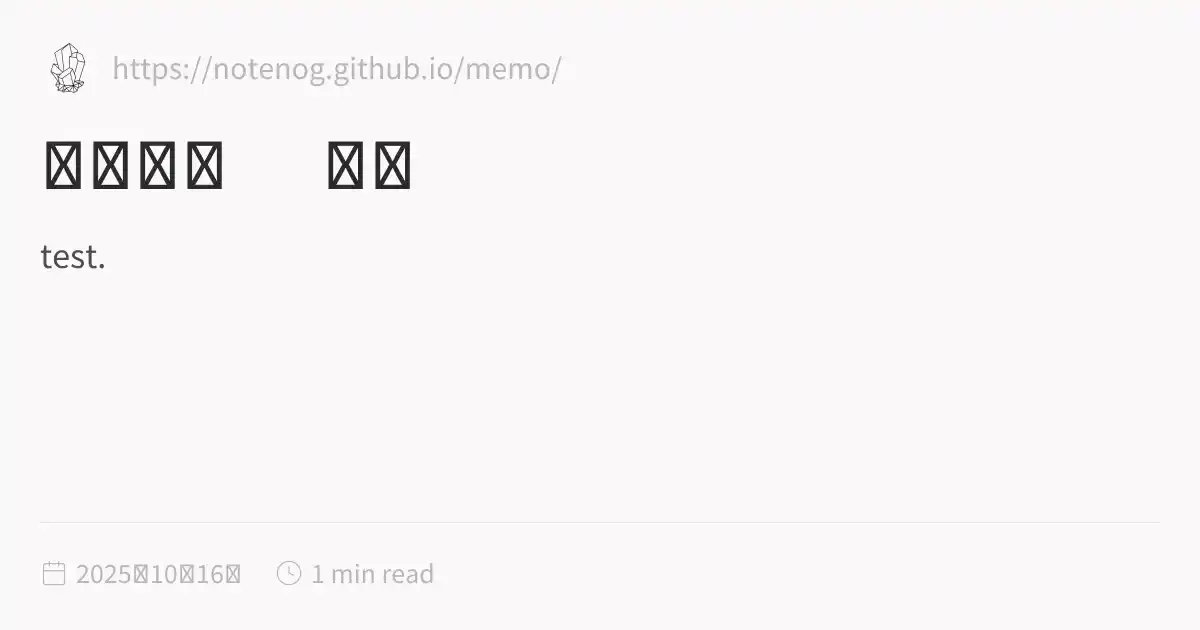
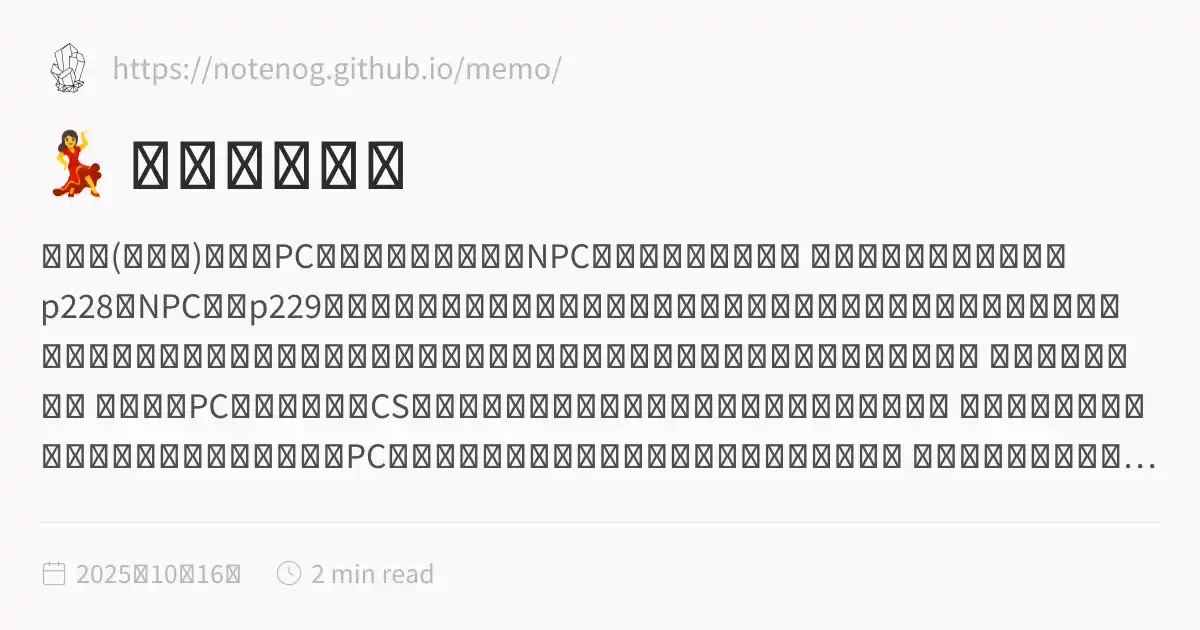
fix: Final push of clean assets with all content emitters disabled

diff --git a/docs/inSANe_old/test.html b/docs/inSANe_old/test.html
@@ -1,5 +1,5 @@
 <!DOCTYPE html>
-<html lang="ja" dir="ltr"><head><title>【共演者ルール】</title><meta charset="utf-8"/><link rel="preconnect" href="https://fonts.googleapis.com"/><link rel="preconnect" href="https://fonts.gstatic.com"/><link rel="stylesheet" href="https://fonts.googleapis.com/css2?family=Schibsted Grotesk:wght@400;700&amp;family=Source Sans Pro:ital,wght@0,400;0,600;1,400;1,600&amp;family=IBM Plex Mono:wght@400;600&amp;display=swap"/><link rel="preconnect" href="https://cdnjs.cloudflare.com" crossorigin="anonymous"/><meta name="viewport" content="width=device-width, initial-scale=1.0"/><meta name="og:site_name" content="MEMO"/><meta property="og:title" content="【共演者ルール】"/><meta property="og:type" content="website"/><meta name="twitter:card" content="summary_large_image"/><meta name="twitter:title" content="【共演者ルール】"/><meta name="twitter:description" content="test."/><meta property="og:description" content="test."/><meta property="og:image:alt" content="test."/><meta property="twitter:domain" content="https://notenog.github.io/memo/"/><meta property="og:url" content="https://https//notenog.github.io/memo/inSANe_old/test"/><meta property="twitter:url" content="https://https//notenog.github.io/memo/inSANe_old/test"/><link rel="icon" href="../static/icon.png"/><meta name="description" content="test."/><meta name="generator" content="Quartz"/><link href="../index.css" rel="stylesheet" type="text/css" spa-preserve/><style>.expand-button {
+<html lang="ja" dir="ltr"><head><title>💃 共演者ルール</title><meta charset="utf-8"/><link rel="preconnect" href="https://fonts.googleapis.com"/><link rel="preconnect" href="https://fonts.gstatic.com"/><link rel="stylesheet" href="https://fonts.googleapis.com/css2?family=Schibsted Grotesk:wght@400;700&amp;family=Source Sans Pro:ital,wght@0,400;0,600;1,400;1,600&amp;family=IBM Plex Mono:wght@400;600&amp;display=swap"/><link rel="preconnect" href="https://cdnjs.cloudflare.com" crossorigin="anonymous"/><meta name="viewport" content="width=device-width, initial-scale=1.0"/><meta name="og:site_name" content="MEMO"/><meta property="og:title" content="💃 共演者ルール"/><meta property="og:type" content="website"/><meta name="twitter:card" content="summary_large_image"/><meta name="twitter:title" content="💃 共演者ルール"/><meta name="twitter:description" content="共演者(ゲスト)とは、PCと同等の動きをするNPCのことを指します。 以下のものはインセインp228「NPC」、p229「共演者」の記述等参照のうえ、大々的に調整してあるハウスルールです。「共演者ルールを採用する」という記述のあるセッションの際は必ずご確認を願います。 【共演者ルール】 共演者はPCと同じようにCSを作成し特技・アビリティ・アイテムを使用する。 調査判定、感情判定、恐怖判定、戦闘等の通常PCが可能な行為判定や修正の全てを自発的に行う。 共演者の手番は全てのPCの行動の後に行う。あるいは、全員の手番をダイスで決定する場合は共演者もダイスロールに参加し順番を決定する。 共演者は「..."/><meta property="og:description" content="共演者(ゲスト)とは、PCと同等の動きをするNPCのことを指します。 以下のものはインセインp228「NPC」、p229「共演者」の記述等参照のうえ、大々的に調整してあるハウスルールです。「共演者ルールを採用する」という記述のあるセッションの際は必ずご確認を願います。 【共演者ルール】 共演者はPCと同じようにCSを作成し特技・アビリティ・アイテムを使用する。 調査判定、感情判定、恐怖判定、戦闘等の通常PCが可能な行為判定や修正の全てを自発的に行う。 共演者の手番は全てのPCの行動の後に行う。あるいは、全員の手番をダイスで決定する場合は共演者もダイスロールに参加し順番を決定する。 共演者は「..."/><meta property="og:image:alt" content="共演者(ゲスト)とは、PCと同等の動きをするNPCのことを指します。 以下のものはインセインp228「NPC」、p229「共演者」の記述等参照のうえ、大々的に調整してあるハウスルールです。「共演者ルールを採用する」という記述のあるセッションの際は必ずご確認を願います。 【共演者ルール】 共演者はPCと同じようにCSを作成し特技・アビリティ・アイテムを使用する。 調査判定、感情判定、恐怖判定、戦闘等の通常PCが可能な行為判定や修正の全てを自発的に行う。 共演者の手番は全てのPCの行動の後に行う。あるいは、全員の手番をダイスで決定する場合は共演者もダイスロールに参加し順番を決定する。 共演者は「..."/><meta property="twitter:domain" content="https://notenog.github.io/memo/"/><meta property="og:url" content="https://https//notenog.github.io/memo/inSANe_old/test"/><meta property="twitter:url" content="https://https//notenog.github.io/memo/inSANe_old/test"/><link rel="icon" href="../static/icon.png"/><meta name="description" content="共演者(ゲスト)とは、PCと同等の動きをするNPCのことを指します。 以下のものはインセインp228「NPC」、p229「共演者」の記述等参照のうえ、大々的に調整してあるハウスルールです。「共演者ルールを採用する」という記述のあるセッションの際は必ずご確認を願います。 【共演者ルール】 共演者はPCと同じようにCSを作成し特技・アビリティ・アイテムを使用する。 調査判定、感情判定、恐怖判定、戦闘等の通常PCが可能な行為判定や修正の全てを自発的に行う。 共演者の手番は全てのPCの行動の後に行う。あるいは、全員の手番をダイスで決定する場合は共演者もダイスロールに参加し順番を決定する。 共演者は「..."/><meta name="generator" content="Quartz"/><link href="../index.css" rel="stylesheet" type="text/css" spa-preserve/><style>.expand-button {
   position: absolute;
   display: flex;
   float: right;
@@ -116,6 +116,28 @@ pre:hover > .expand-button {
   padding: 0 12px;
   font-size: 14px;
 }
[2 lines of base64/hex data omitted]
+<blockquote class="callout info is-collapsible is-collapsed" data-callout="info" data-callout-fold>
+<div class="callout-title">
+                  <div class="callout-icon"></div>
+                  <div class="callout-title-inner"><p>共演者(ゲスト)とは、PCと同等の動きをするNPCのことを指します。 <br/>以下のものはインセインp228「NPC」、p229「共演者」の記述等参照のうえ、大々的に調整してあるハウスルールです。<br/><br/><code>「共演者ルールを採用する」という記述のあるセッションの際は必ずご確認を願います。</code></p></div>
+                  <div class="fold-callout-icon"></div>
+                </div>
+</blockquote>
+<br/>
+<br/>
+<h1 id="共演者ルール">【共演者ルール】<a role="anchor" aria-hidden="true" tabindex="-1" data-no-popover="true" href="#共演者ルール" class="internal"><svg width="18" height="18" viewBox="0 0 24 24" fill="none" stroke="currentColor" stroke-width="2" stroke-linecap="round" stroke-linejoin="round"><path d="M10 13a5 5 0 0 0 7.54.54l3-3a5 5 0 0 0-7.07-7.07l-1.72 1.71"></path><path d="M14 11a5 5 0 0 0-7.54-.54l-3 3a5 5 0 0 0 7.07 7.07l1.71-1.71"></path></svg></a></h1>
+<hr/>
+<ul>
+<li>共演者はPCと同じようにCSを作成し特技・アビリティ・アイテムを使用する。</li>
+<li>調査判定、感情判定、恐怖判定、戦闘等の通常PCが可能な行為判定や修正の全てを自発的に行う。</li>
+<li>共演者の手番は全てのPCの行動の後に行う。<br/>あるいは、全員の手番をダイスで決定する場合は共演者もダイスロールに参加し順番を決定する。</li>
+<li>共演者は「回想」を行う。(行わない場合は事前に告知する)</li>
+<li>クライマックスフェイズで共演者の生命力が０になった場合、それを行ったプレイヤーはその共演者を死亡させるかを選ぶことが出来る。</li>
+<li>共演者は死亡時の「攻撃」や「遺言」を使用することは出来ない。</li>
+<li>功績点「ロールプレイ」において、共演者は除外される。</li>
+<li>功績点「琴線」において、共演者を選ぶことは出来ない。</li>
+</ul>
+<p><br/><br/><br/></p></article><hr/><div class="page-footer"></div></div><div class="right sidebar"><div class="search"><button class="search-button"><svg role="img" xmlns="http://www.w3.org/2000/svg" viewBox="0 0 19.9 19.7"><title>Search</title><g class="search-path" fill="none"><path stroke-linecap="square" d="M18.5 18.3l-5.4-5.4"></path><circle cx="8" cy="8" r="7"></circle></g></svg><p>Search</p></button><div class="search-container"><div class="search-space"><input autocomplete="off" class="search-bar" name="search" type="text" aria-label="検索ワードを入力" placeholder="検索ワードを入力"/><div class="search-layout" data-preview="true"></div></div></div></div></div><footer class><p>Created with <a href="https://quartz.jzhao.xyz/">Quartz v4.5.2</a> © 2025</p><ul><li><a href="https://github.com/jackyzha0/quartz">GitHub</a></li></ul></footer></div></div></body><script type="application/javascript">function n(){let t=this.parentElement;t.classList.toggle("is-collapsed");let e=t.getElementsByClassName("callout-content")[0];if(!e)return;let l=t.classList.contains("is-collapsed");e.style.gridTemplateRows=l?"0fr":"1fr"}function c(){let t=document.getElementsByClassName("callout is-collapsible");for(let e of t){let l=e.getElementsByClassName("callout-title")[0],s=e.getElementsByClassName("callout-content")[0];if(!l||!s)continue;l.addEventListener("click",n),window.addCleanup(()=>l.removeEventListener("click",n));let o=e.classList.contains("is-collapsed");s.style.gridTemplateRows=o?"0fr":"1fr"}}document.addEventListener("nav",c);
 </script><script type="module">function f(i,e){if(!i)return;function r(o){o.target===this&&(o.preventDefault(),o.stopPropagation(),e())}function t(o){o.key.startsWith("Esc")&&(o.preventDefault(),e())}i?.addEventListener("click",r),window.addCleanup(()=>i?.removeEventListener("click",r)),document.addEventListener("keydown",t),window.addCleanup(()=>document.removeEventListener("keydown",t))}function y(i){for(;i.firstChild;)i.removeChild(i.firstChild)}var h=class{constructor(e,r){this.container=e;this.content=r;this.setupEventListeners(),this.setupNavigationControls(),this.resetTransform()}isDragging=!1;startPan={x:0,y:0};currentPan={x:0,y:0};scale=1;MIN_SCALE=.5;MAX_SCALE=3;cleanups=[];setupEventListeners(){let e=this.onMouseDown.bind(this),r=this.onMouseMove.bind(this),t=this.onMouseUp.bind(this),o=this.resetTransform.bind(this);this.container.addEventListener("mousedown",e),document.addEventListener("mousemove",r),document.addEventListener("mouseup",t),window.addEventListener("resize",o),this.cleanups.push(()=>this.container.removeEventListener("mousedown",e),()=>document.removeEventListener("mousemove",r),()=>document.removeEventListener("mouseup",t),()=>window.removeEventListener("resize",o))}cleanup(){for(let e of this.cleanups)e()}setupNavigationControls(){let e=document.createElement("div");e.className="mermaid-controls";let r=this.createButton("+",()=>this.zoom(.1)),t=this.createButton("-",()=>this.zoom(-.1)),o=this.createButton("Reset",()=>this.resetTransform());e.appendChild(t),e.appendChild(o),e.appendChild(r),this.container.appendChild(e)}createButton(e,r){let t=document.createElement("button");return t.textContent=e,t.className="mermaid-control-button",t.addEventListener("click",r),window.addCleanup(()=>t.removeEventListener("click",r)),t}onMouseDown(e){e.button===0&&(this.isDragging=!0,this.startPan={x:e.clientX-this.currentPan.x,y:e.clientY-this.currentPan.y},this.container.style.cursor="grabbing")}onMouseMove(e){this.isDragging&&(e.preventDefault(),this.currentPan={x:e.clientX-this.startPan.x,y:e.clientY-this.startPan.y},this.updateTransform())}onMouseUp(){this.isDragging=!1,this.container.style.cursor="grab"}zoom(e){let r=Math.min(Math.max(this.scale+e,this.MIN_SCALE),this.MAX_SCALE),t=this.content.getBoundingClientRect(),o=t.width/2,n=t.height/2,c=r-this.scale;this.currentPan.x-=o*c,this.currentPan.y-=n*c,this.scale=r,this.updateTransform()}updateTransform(){this.content.style.transform=`translate(${this.currentPan.x}px, ${this.currentPan.y}px) scale(${this.scale})`}resetTransform(){this.scale=1;let e=this.content.querySelector("svg");this.currentPan={x:e.getBoundingClientRect().width/2,y:e.getBoundingClientRect().height/2},this.updateTransform()}},C=["--secondary","--tertiary","--gray","--light","--lightgray","--highlight","--dark","--darkgray","--codeFont"],E;document.addEventListener("nav",async()=>{let e=document.querySelector(".center").querySelectorAll("code.mermaid");if(e.length===0)return;E||=await import("https://cdnjs.cloudflare.com/ajax/libs/mermaid/11.4.0/mermaid.esm.min.mjs");let r=E.default,t=new WeakMap;for(let n of e)t.set(n,n.innerText);async function o(){for(let s of e){s.removeAttribute("data-processed");let a=t.get(s);a&&(s.innerHTML=a)}let n=C.reduce((s,a)=>(s[a]=window.getComputedStyle(document.documentElement).getPropertyValue(a),s),{}),c=document.documentElement.getAttribute("saved-theme")==="dark";r.initialize({startOnLoad:!1,securityLevel:"loose",theme:c?"dark":"base",themeVariables:{fontFamily:n["--codeFont"],primaryColor:n["--light"],primaryTextColor:n["--darkgray"],primaryBorderColor:n["--tertiary"],lineColor:n["--darkgray"],secondaryColor:n["--secondary"],tertiaryColor:n["--tertiary"],clusterBkg:n["--light"],edgeLabelBackground:n["--highlight"]}}),await r.run({nodes:e})}await o(),document.addEventListener("themechange",o),window.addCleanup(()=>document.removeEventListener("themechange",o));for(let n=0;n<e.length;n++){let v=function(){let g=l.querySelector("#mermaid-space"),m=l.querySelector(".mermaid-content");if(!m)return;y(m);let w=c.querySelector("svg").cloneNode(!0);m.appendChild(w),l.classList.add("active"),g.style.cursor="grab",u=new h(g,m)},M=function(){l.classList.remove("active"),u?.cleanup(),u=null},c=e[n],s=c.parentElement,a=s.querySelector(".clipboard-button"),d=s.querySelector(".expand-button"),p=window.getComputedStyle(a),L=a.offsetWidth+parseFloat(p.marginLeft||"0")+parseFloat(p.marginRight||"0");d.style.right=`calc(${L}px + 0.3rem)`,s.prepend(d);let l=s.querySelector("#mermaid-container");if(!l)return;let u=null;d.addEventListener("click",v),f(l,M),window.addCleanup(()=>{u?.cleanup(),d.removeEventListener("click",v)})}});
 </script><script src="https://cdn.jsdelivr.net/npm/katex@0.16.11/dist/contrib/copy-tex.min.js" type="application/javascript"></script><script src="../postscript.js" type="module"></script></html>

diff --git a/docs/inSANe_old/inSANe_old.html b/docs/inSANe_old/inSANe_old.html
@@ -1,5 +1,5 @@
 <!DOCTYPE html>
-<html lang="ja" dir="ltr"><head><title>🏚 ハウスルール</title><meta charset="utf-8"/><link rel="preconnect" href="https://fonts.googleapis.com"/><link rel="preconnect" href="https://fonts.gstatic.com"/><link rel="stylesheet" href="https://fonts.googleapis.com/css2?family=Schibsted Grotesk:wght@400;700&amp;family=Source Sans Pro:ital,wght@0,400;0,600;1,400;1,600&amp;family=IBM Plex Mono:wght@400;600&amp;display=swap"/><link rel="preconnect" href="https://cdnjs.cloudflare.com" crossorigin="anonymous"/><meta name="viewport" content="width=device-width, initial-scale=1.0"/><meta name="og:site_name" content="MEMO"/><meta property="og:title" content="🏚 ハウスルール"/><meta property="og:type" content="website"/><meta name="twitter:card" content="summary_large_image"/><meta name="twitter:title" content="🏚 ハウスルール"/><meta name="twitter:description" content="01.基本ルール 【キャラクターの職業及び職業の自作について】(p173) 職業特技を適用して下さい。 職業を自作する際は、職業に当てはめた特技を２つ選び、CSに記載してください。(例：泥棒「物陰」「効率」 宗教家「歴史」「霊魂」 等) 【行動順について】 希望したPLから順にシーンを回していきます。 あるいは好きなダイスを振って大きい数字順にどうぞ。 【起用選択ルール】 感情判定でのスペシャル(２巻、p158) PL全員がインセイン２巻を所持してる場合のみ 【情報共有について】 感情を結んだ際に起こる「情報共有」は、受け手側が情報を見たいと宣言した時点で共有されます。 能動側が強制的に見せる..."/><meta property="og:description" content="01.基本ルール 【キャラクターの職業及び職業の自作について】(p173) 職業特技を適用して下さい。 職業を自作する際は、職業に当てはめた特技を２つ選び、CSに記載してください。(例：泥棒「物陰」「効率」 宗教家「歴史」「霊魂」 等) 【行動順について】 希望したPLから順にシーンを回していきます。 あるいは好きなダイスを振って大きい数字順にどうぞ。 【起用選択ルール】 感情判定でのスペシャル(２巻、p158) PL全員がインセイン２巻を所持してる場合のみ 【情報共有について】 感情を結んだ際に起こる「情報共有」は、受け手側が情報を見たいと宣言した時点で共有されます。 能動側が強制的に見せる..."/><meta property="og:image:alt" content="01.基本ルール 【キャラクターの職業及び職業の自作について】(p173) 職業特技を適用して下さい。 職業を自作する際は、職業に当てはめた特技を２つ選び、CSに記載してください。(例：泥棒「物陰」「効率」 宗教家「歴史」「霊魂」 等) 【行動順について】 希望したPLから順にシーンを回していきます。 あるいは好きなダイスを振って大きい数字順にどうぞ。 【起用選択ルール】 感情判定でのスペシャル(２巻、p158) PL全員がインセイン２巻を所持してる場合のみ 【情報共有について】 感情を結んだ際に起こる「情報共有」は、受け手側が情報を見たいと宣言した時点で共有されます。 能動側が強制的に見せる..."/><meta property="twitter:domain" content="https://notenog.github.io/memo/"/><meta property="og:url" content="https://https//notenog.github.io/memo/inSANe_old/inSANe_old"/><meta property="twitter:url" content="https://https//notenog.github.io/memo/inSANe_old/inSANe_old"/><link rel="icon" href="../static/icon.png"/><meta name="description" content="01.基本ルール 【キャラクターの職業及び職業の自作について】(p173) 職業特技を適用して下さい。 職業を自作する際は、職業に当てはめた特技を２つ選び、CSに記載してください。(例：泥棒「物陰」「効率」 宗教家「歴史」「霊魂」 等) 【行動順について】 希望したPLから順にシーンを回していきます。 あるいは好きなダイスを振って大きい数字順にどうぞ。 【起用選択ルール】 感情判定でのスペシャル(２巻、p158) PL全員がインセイン２巻を所持してる場合のみ 【情報共有について】 感情を結んだ際に起こる「情報共有」は、受け手側が情報を見たいと宣言した時点で共有されます。 能動側が強制的に見せる..."/><meta name="generator" content="Quartz"/><link href="../index.css" rel="stylesheet" type="text/css" spa-preserve/><style>.expand-button {
+<html lang="ja" dir="ltr"><head><title>🏚 ハウスルール</title><meta charset="utf-8"/><link rel="preconnect" href="https://fonts.googleapis.com"/><link rel="preconnect" href="https://fonts.gstatic.com"/><link rel="stylesheet" href="https://fonts.googleapis.com/css2?family=Schibsted Grotesk:wght@400;700&amp;family=Source Sans Pro:ital,wght@0,400;0,600;1,400;1,600&amp;family=IBM Plex Mono:wght@400;600&amp;display=swap"/><link rel="preconnect" href="https://cdnjs.cloudflare.com" crossorigin="anonymous"/><meta name="viewport" content="width=device-width, initial-scale=1.0"/><meta name="og:site_name" content="MEMO"/><meta property="og:title" content="🏚 ハウスルール"/><meta property="og:type" content="website"/><meta name="twitter:card" content="summary_large_image"/><meta name="twitter:title" content="🏚 ハウスルール"/><meta name="twitter:description" content="01.基本ルール 【キャラクターの職業及び職業の自作について】(p173) 職業特技を適用して下さい。 職業を自作する際は、職業に当てはめた特技を２つ選び、CSに記載してください。(例：泥棒「物陰」「効率」 宗教家「歴史」「霊魂」 等) 【行動順について】 希望したPLから順にシーンを回していきます。 あるいは好きなダイスを振って大きい数字順にどうぞ。 【起用選択ルール】 感情判定でのスペシャル(２巻、p158) PL全員がインセイン２巻を所持してる場合のみ 【情報共有について】 感情を結んだ際に起こる「情報共有」は、受け手側が情報を見たいと宣言した時点で共有されます。 能動側が強制的に見せ..."/><meta property="og:description" content="01.基本ルール 【キャラクターの職業及び職業の自作について】(p173) 職業特技を適用して下さい。 職業を自作する際は、職業に当てはめた特技を２つ選び、CSに記載してください。(例：泥棒「物陰」「効率」 宗教家「歴史」「霊魂」 等) 【行動順について】 希望したPLから順にシーンを回していきます。 あるいは好きなダイスを振って大きい数字順にどうぞ。 【起用選択ルール】 感情判定でのスペシャル(２巻、p158) PL全員がインセイン２巻を所持してる場合のみ 【情報共有について】 感情を結んだ際に起こる「情報共有」は、受け手側が情報を見たいと宣言した時点で共有されます。 能動側が強制的に見せ..."/><meta property="og:image:alt" content="01.基本ルール 【キャラクターの職業及び職業の自作について】(p173) 職業特技を適用して下さい。 職業を自作する際は、職業に当てはめた特技を２つ選び、CSに記載してください。(例：泥棒「物陰」「効率」 宗教家「歴史」「霊魂」 等) 【行動順について】 希望したPLから順にシーンを回していきます。 あるいは好きなダイスを振って大きい数字順にどうぞ。 【起用選択ルール】 感情判定でのスペシャル(２巻、p158) PL全員がインセイン２巻を所持してる場合のみ 【情報共有について】 感情を結んだ際に起こる「情報共有」は、受け手側が情報を見たいと宣言した時点で共有されます。 能動側が強制的に見せ..."/><meta property="twitter:domain" content="https://notenog.github.io/memo/"/><meta property="og:url" content="https://https//notenog.github.io/memo/inSANe_old/inSANe_old"/><meta property="twitter:url" content="https://https//notenog.github.io/memo/inSANe_old/inSANe_old"/><link rel="icon" href="../static/icon.png"/><meta name="description" content="01.基本ルール 【キャラクターの職業及び職業の自作について】(p173) 職業特技を適用して下さい。 職業を自作する際は、職業に当てはめた特技を２つ選び、CSに記載してください。(例：泥棒「物陰」「効率」 宗教家「歴史」「霊魂」 等) 【行動順について】 希望したPLから順にシーンを回していきます。 あるいは好きなダイスを振って大きい数字順にどうぞ。 【起用選択ルール】 感情判定でのスペシャル(２巻、p158) PL全員がインセイン２巻を所持してる場合のみ 【情報共有について】 感情を結んだ際に起こる「情報共有」は、受け手側が情報を見たいと宣言した時点で共有されます。 能動側が強制的に見せ..."/><meta name="generator" content="Quartz"/><link href="../index.css" rel="stylesheet" type="text/css" spa-preserve/><style>.expand-button {
   position: absolute;
   display: flex;
   float: right;
@@ -116,7 +116,8 @@ pre:hover > .expand-button {
   padding: 0 12px;
   font-size: 14px;
 }
[2 lines of base64/hex data omitted]
+<h1 id="01基本ルール">01.基本ルール<a role="anchor" aria-hidden="true" tabindex="-1" data-no-popover="true" href="#01基本ルール" class="internal"><svg width="18" height="18" viewBox="0 0 24 24" fill="none" stroke="currentColor" stroke-width="2" stroke-linecap="round" stroke-linejoin="round"><path d="M10 13a5 5 0 0 0 7.54.54l3-3a5 5 0 0 0-7.07-7.07l-1.72 1.71"></path><path d="M14 11a5 5 0 0 0-7.54-.54l-3 3a5 5 0 0 0 7.07 7.07l1.71-1.71"></path></svg></a></h1>
 <hr/>
 <h2 id="キャラクターの職業及び職業の自作についてp173">【キャラクターの職業及び職業の自作について】(p173)<a role="anchor" aria-hidden="true" tabindex="-1" data-no-popover="true" href="#キャラクターの職業及び職業の自作についてp173" class="internal"><svg width="18" height="18" viewBox="0 0 24 24" fill="none" stroke="currentColor" stroke-width="2" stroke-linecap="round" stroke-linejoin="round"><path d="M10 13a5 5 0 0 0 7.54.54l3-3a5 5 0 0 0-7.07-7.07l-1.72 1.71"></path><path d="M14 11a5 5 0 0 0-7.54-.54l-3 3a5 5 0 0 0 7.07 7.07l1.71-1.71"></path></svg></a></h2>
 <ul>
@@ -190,13 +191,13 @@ pre:hover > .expand-button {
 <br/>
 <h3 id="回想について">【回想について】<a role="anchor" aria-hidden="true" tabindex="-1" data-no-popover="true" href="#回想について" class="internal"><svg width="18" height="18" viewBox="0 0 24 24" fill="none" stroke="currentColor" stroke-width="2" stroke-linecap="round" stroke-linejoin="round"><path d="M10 13a5 5 0 0 0 7.54.54l3-3a5 5 0 0 0-7.07-7.07l-1.72 1.71"></path><path d="M14 11a5 5 0 0 0-7.54-.54l-3 3a5 5 0 0 0 7.07 7.07l1.71-1.71"></path></svg></a></h3>
 <ul>
-<li>回想においても開かれた秘密でも「ショック」「恐怖判定」は発生します。<br/>ただし既に受けたものであれば再度の発生はありません。
+<li>回想においても開かれた秘密でも「ショック」「恐怖判定」は発生します。<br/>ただし既に受けたものであれば再度の発生はありません。<br/>
 <br/>
 </li>
-<li>回想における「ショック」「恐怖判定」は、回想のダイスロール後に処理を行います。
+<li>回想における「ショック」「恐怖判定」は、回想のダイスロール後に処理を行います。<br/>
 <br/>
 </li>
-<li>希望者は自分の回想の際に音楽等を持ち寄ることを自由とします。<br/>演出を各自追加して頂いて結構です。<br/>自分の回想用カットインのタグには「PC番号」を入れてください。</li>
+<li>希望者は自分の回想の際に音楽等を持ち寄ることを自由とします。<br/>演出を各自追加して頂いて結構です。<br/>自分の回想用カットインのタグには「PC番号」を入れてください。<br/></li>
 </ul>
 <blockquote class="callout info is-collapsible is-collapsed" data-callout="info" data-callout-fold>
 <div class="callout-title">

diff --git a/docs/inSANe_old/index.html b/docs/inSANe_old/index.html
@@ -116,6 +116,6 @@ pre:hover > .expand-button {
   padding: 0 12px;
   font-size: 14px;
 }
[2 lines of base64/hex data omitted]
 </script><script type="module">function f(i,e){if(!i)return;function r(o){o.target===this&&(o.preventDefault(),o.stopPropagation(),e())}function t(o){o.key.startsWith("Esc")&&(o.preventDefault(),e())}i?.addEventListener("click",r),window.addCleanup(()=>i?.removeEventListener("click",r)),document.addEventListener("keydown",t),window.addCleanup(()=>document.removeEventListener("keydown",t))}function y(i){for(;i.firstChild;)i.removeChild(i.firstChild)}var h=class{constructor(e,r){this.container=e;this.content=r;this.setupEventListeners(),this.setupNavigationControls(),this.resetTransform()}isDragging=!1;startPan={x:0,y:0};currentPan={x:0,y:0};scale=1;MIN_SCALE=.5;MAX_SCALE=3;cleanups=[];setupEventListeners(){let e=this.onMouseDown.bind(this),r=this.onMouseMove.bind(this),t=this.onMouseUp.bind(this),o=this.resetTransform.bind(this);this.container.addEventListener("mousedown",e),document.addEventListener("mousemove",r),document.addEventListener("mouseup",t),window.addEventListener("resize",o),this.cleanups.push(()=>this.container.removeEventListener("mousedown",e),()=>document.removeEventListener("mousemove",r),()=>document.removeEventListener("mouseup",t),()=>window.removeEventListener("resize",o))}cleanup(){for(let e of this.cleanups)e()}setupNavigationControls(){let e=document.createElement("div");e.className="mermaid-controls";let r=this.createButton("+",()=>this.zoom(.1)),t=this.createButton("-",()=>this.zoom(-.1)),o=this.createButton("Reset",()=>this.resetTransform());e.appendChild(t),e.appendChild(o),e.appendChild(r),this.container.appendChild(e)}createButton(e,r){let t=document.createElement("button");return t.textContent=e,t.className="mermaid-control-button",t.addEventListener("click",r),window.addCleanup(()=>t.removeEventListener("click",r)),t}onMouseDown(e){e.button===0&&(this.isDragging=!0,this.startPan={x:e.clientX-this.currentPan.x,y:e.clientY-this.currentPan.y},this.container.style.cursor="grabbing")}onMouseMove(e){this.isDragging&&(e.preventDefault(),this.currentPan={x:e.clientX-this.startPan.x,y:e.clientY-this.startPan.y},this.updateTransform())}onMouseUp(){this.isDragging=!1,this.container.style.cursor="grab"}zoom(e){let r=Math.min(Math.max(this.scale+e,this.MIN_SCALE),this.MAX_SCALE),t=this.content.getBoundingClientRect(),o=t.width/2,n=t.height/2,c=r-this.scale;this.currentPan.x-=o*c,this.currentPan.y-=n*c,this.scale=r,this.updateTransform()}updateTransform(){this.content.style.transform=`translate(${this.currentPan.x}px, ${this.currentPan.y}px) scale(${this.scale})`}resetTransform(){this.scale=1;let e=this.content.querySelector("svg");this.currentPan={x:e.getBoundingClientRect().width/2,y:e.getBoundingClientRect().height/2},this.updateTransform()}},C=["--secondary","--tertiary","--gray","--light","--lightgray","--highlight","--dark","--darkgray","--codeFont"],E;document.addEventListener("nav",async()=>{let e=document.querySelector(".center").querySelectorAll("code.mermaid");if(e.length===0)return;E||=await import("https://cdnjs.cloudflare.com/ajax/libs/mermaid/11.4.0/mermaid.esm.min.mjs");let r=E.default,t=new WeakMap;for(let n of e)t.set(n,n.innerText);async function o(){for(let s of e){s.removeAttribute("data-processed");let a=t.get(s);a&&(s.innerHTML=a)}let n=C.reduce((s,a)=>(s[a]=window.getComputedStyle(document.documentElement).getPropertyValue(a),s),{}),c=document.documentElement.getAttribute("saved-theme")==="dark";r.initialize({startOnLoad:!1,securityLevel:"loose",theme:c?"dark":"base",themeVariables:{fontFamily:n["--codeFont"],primaryColor:n["--light"],primaryTextColor:n["--darkgray"],primaryBorderColor:n["--tertiary"],lineColor:n["--darkgray"],secondaryColor:n["--secondary"],tertiaryColor:n["--tertiary"],clusterBkg:n["--light"],edgeLabelBackground:n["--highlight"]}}),await r.run({nodes:e})}await o(),document.addEventListener("themechange",o),window.addCleanup(()=>document.removeEventListener("themechange",o));for(let n=0;n<e.length;n++){let v=function(){let g=l.querySelector("#mermaid-space"),m=l.querySelector(".mermaid-content");if(!m)return;y(m);let w=c.querySelector("svg").cloneNode(!0);m.appendChild(w),l.classList.add("active"),g.style.cursor="grab",u=new h(g,m)},M=function(){l.classList.remove("active"),u?.cleanup(),u=null},c=e[n],s=c.parentElement,a=s.querySelector(".clipboard-button"),d=s.querySelector(".expand-button"),p=window.getComputedStyle(a),L=a.offsetWidth+parseFloat(p.marginLeft||"0")+parseFloat(p.marginRight||"0");d.style.right=`calc(${L}px + 0.3rem)`,s.prepend(d);let l=s.querySelector("#mermaid-container");if(!l)return;let u=null;d.addEventListener("click",v),f(l,M),window.addCleanup(()=>{u?.cleanup(),d.removeEventListener("click",v)})}});
 </script><script src="https://cdn.jsdelivr.net/npm/katex@0.16.11/dist/contrib/copy-tex.min.js" type="application/javascript"></script><script src="../postscript.js" type="module"></script></html>

diff --git a/docs/index.html b/docs/index.html
@@ -116,7 +116,7 @@ pre:hover > .expand-button {
   padding: 0 12px;
   font-size: 14px;
 }
[2 lines of base64/hex data omitted]
 <h2 id="-使用ツール">【🔧 使用ツール】<a role="anchor" aria-hidden="true" tabindex="-1" data-no-popover="true" href="#-使用ツール" class="internal"><svg width="18" height="18" viewBox="0 0 24 24" fill="none" stroke="currentColor" stroke-width="2" stroke-linecap="round" stroke-linejoin="round"><path d="M10 13a5 5 0 0 0 7.54.54l3-3a5 5 0 0 0-7.07-7.07l-1.72 1.71"></path><path d="M14 11a5 5 0 0 0-7.54-.54l-3 3a5 5 0 0 0 7.07 7.07l1.71-1.71"></path></svg></a></h2>
 <ul>
 <li>Tekey()を使用します</li>

diff --git a/docs/inSANe_old/test2.html b/docs/inSANe_old/test2.html
@@ -1,0 +1,121 @@
+<!DOCTYPE html>
+<html lang="ja" dir="ltr"><head><title>【CS秘匿ルール】</title><meta charset="utf-8"/><link rel="preconnect" href="https://fonts.googleapis.com"/><link rel="preconnect" href="https://fonts.gstatic.com"/><link rel="stylesheet" href="https://fonts.googleapis.com/css2?family=Schibsted Grotesk:wght@400;700&amp;family=Source Sans Pro:ital,wght@0,400;0,600;1,400;1,600&amp;family=IBM Plex Mono:wght@400;600&amp;display=swap"/><link rel="preconnect" href="https://cdnjs.cloudflare.com" crossorigin="anonymous"/><meta name="viewport" content="width=device-width, initial-scale=1.0"/><meta name="og:site_name" content="MEMO"/><meta property="og:title" content="【CS秘匿ルール】"/><meta property="og:type" content="website"/><meta name="twitter:card" content="summary_large_image"/><meta name="twitter:title" content="【CS秘匿ルール】"/><meta name="twitter:description" content="test."/><meta property="og:description" content="test."/><meta property="og:image:alt" content="test."/><meta property="twitter:domain" content="https://notenog.github.io/memo/"/><meta property="og:url" content="https://https//notenog.github.io/memo/inSANe_old/test2"/><meta property="twitter:url" content="https://https//notenog.github.io/memo/inSANe_old/test2"/><link rel="icon" href="../static/icon.png"/><meta name="description" content="test."/><meta name="generator" content="Quartz"/><link href="../index.css" rel="stylesheet" type="text/css" spa-preserve/><style>.expand-button {
+  position: absolute;
+  display: flex;
+  float: right;
+  padding: 0.4rem;
+  margin: 0.3rem;
+  right: 0;
+  color: var(--gray);
+  border-color: var(--dark);
+  background-color: var(--light);
+  border: 1px solid;
+  border-radius: 5px;
+  opacity: 0;
+  transition: 0.2s;
+}
+.expand-button > svg {
+  fill: var(--light);
+  filter: contrast(0.3);
+}
+.expand-button:hover {
+  cursor: pointer;
+  border-color: var(--secondary);
+}
+.expand-button:focus {
+  outline: 0;
+}
+
+pre:hover > .expand-button {
+  opacity: 1;
+  transition: 0.2s;
+}
+
+#mermaid-container {
+  position: fixed;
+  contain: layout;
+  z-index: 999;
+  left: 0;
+  top: 0;
+  width: 100vw;
+  height: 100vh;
+  overflow: hidden;
+  display: none;
+  backdrop-filter: blur(4px);
+  background: rgba(0, 0, 0, 0.5);
+}
+#mermaid-container.active {
+  display: inline-block;
+}
+#mermaid-container > #mermaid-space {
+  border: 1px solid var(--lightgray);
+  background-color: var(--light);
+  border-radius: 5px;
+  position: fixed;
+  top: 50%;
+  left: 50%;
+  transform: translate(-50%, -50%);
+  height: 80vh;
+  width: 80vw;
+  overflow: hidden;
+}
+#mermaid-container > #mermaid-space > .mermaid-content {
+  padding: 2rem;
+  position: relative;
+  transform-origin: 0 0;
+  transition: transform 0.1s ease;
+  overflow: visible;
+  min-height: 200px;
+  min-width: 200px;
+}
+#mermaid-container > #mermaid-space > .mermaid-content pre {
+  margin: 0;
+  border: none;
+}
+#mermaid-container > #mermaid-space > .mermaid-content svg {
+  max-width: none;
+  height: auto;
+}
+#mermaid-container > #mermaid-space > .mermaid-controls {
+  position: absolute;
+  bottom: 20px;
+  right: 20px;
+  display: flex;
+  gap: 8px;
+  padding: 8px;
+  background: var(--light);
+  border: 1px solid var(--lightgray);
+  border-radius: 6px;
+  box-shadow: 0 2px 4px rgba(0, 0, 0, 0.1);
+  z-index: 2;
+}
+#mermaid-container > #mermaid-space > .mermaid-controls .mermaid-control-button {
+  display: flex;
+  align-items: center;
+  justify-content: center;
+  width: 32px;
+  height: 32px;
+  padding: 0;
+  border: 1px solid var(--lightgray);
+  background: var(--light);
+  color: var(--dark);
+  border-radius: 4px;
+  cursor: pointer;
+  font-size: 16px;
+  font-family: var(--bodyFont);
+  transition: all 0.2s ease;
+}
+#mermaid-container > #mermaid-space > .mermaid-controls .mermaid-control-button:hover {
+  background: var(--lightgray);
+}
+#mermaid-container > #mermaid-space > .mermaid-controls .mermaid-control-button:active {
+  transform: translateY(1px);
+}
+#mermaid-container > #mermaid-space > .mermaid-controls .mermaid-control-button:nth-child(2) {
+  width: auto;
+  padding: 0 12px;
+  font-size: 14px;
+}
[1 lines of base64/hex data omitted]
+</script><script type="module">function f(i,e){if(!i)return;function r(o){o.target===this&&(o.preventDefault(),o.stopPropagation(),e())}function t(o){o.key.startsWith("Esc")&&(o.preventDefault(),e())}i?.addEventListener("click",r),window.addCleanup(()=>i?.removeEventListener("click",r)),document.addEventListener("keydown",t),window.addCleanup(()=>document.removeEventListener("keydown",t))}function y(i){for(;i.firstChild;)i.removeChild(i.firstChild)}var h=class{constructor(e,r){this.container=e;this.content=r;this.setupEventListeners(),this.setupNavigationControls(),this.resetTransform()}isDragging=!1;startPan={x:0,y:0};currentPan={x:0,y:0};scale=1;MIN_SCALE=.5;MAX_SCALE=3;cleanups=[];setupEventListeners(){let e=this.onMouseDown.bind(this),r=this.onMouseMove.bind(this),t=this.onMouseUp.bind(this),o=this.resetTransform.bind(this);this.container.addEventListener("mousedown",e),document.addEventListener("mousemove",r),document.addEventListener("mouseup",t),window.addEventListener("resize",o),this.cleanups.push(()=>this.container.removeEventListener("mousedown",e),()=>document.removeEventListener("mousemove",r),()=>document.removeEventListener("mouseup",t),()=>window.removeEventListener("resize",o))}cleanup(){for(let e of this.cleanups)e()}setupNavigationControls(){let e=document.createElement("div");e.className="mermaid-controls";let r=this.createButton("+",()=>this.zoom(.1)),t=this.createButton("-",()=>this.zoom(-.1)),o=this.createButton("Reset",()=>this.resetTransform());e.appendChild(t),e.appendChild(o),e.appendChild(r),this.container.appendChild(e)}createButton(e,r){let t=document.createElement("button");return t.textContent=e,t.className="mermaid-control-button",t.addEventListener("click",r),window.addCleanup(()=>t.removeEventListener("click",r)),t}onMouseDown(e){e.button===0&&(this.isDragging=!0,this.startPan={x:e.clientX-this.currentPan.x,y:e.clientY-this.currentPan.y},this.container.style.cursor="grabbing")}onMouseMove(e){this.isDragging&&(e.preventDefault(),this.currentPan={x:e.clientX-this.startPan.x,y:e.clientY-this.startPan.y},this.updateTransform())}onMouseUp(){this.isDragging=!1,this.container.style.cursor="grab"}zoom(e){let r=Math.min(Math.max(this.scale+e,this.MIN_SCALE),this.MAX_SCALE),t=this.content.getBoundingClientRect(),o=t.width/2,n=t.height/2,c=r-this.scale;this.currentPan.x-=o*c,this.currentPan.y-=n*c,this.scale=r,this.updateTransform()}updateTransform(){this.content.style.transform=`translate(${this.currentPan.x}px, ${this.currentPan.y}px) scale(${this.scale})`}resetTransform(){this.scale=1;let e=this.content.querySelector("svg");this.currentPan={x:e.getBoundingClientRect().width/2,y:e.getBoundingClientRect().height/2},this.updateTransform()}},C=["--secondary","--tertiary","--gray","--light","--lightgray","--highlight","--dark","--darkgray","--codeFont"],E;document.addEventListener("nav",async()=>{let e=document.querySelector(".center").querySelectorAll("code.mermaid");if(e.length===0)return;E||=await import("https://cdnjs.cloudflare.com/ajax/libs/mermaid/11.4.0/mermaid.esm.min.mjs");let r=E.default,t=new WeakMap;for(let n of e)t.set(n,n.innerText);async function o(){for(let s of e){s.removeAttribute("data-processed");let a=t.get(s);a&&(s.innerHTML=a)}let n=C.reduce((s,a)=>(s[a]=window.getComputedStyle(document.documentElement).getPropertyValue(a),s),{}),c=document.documentElement.getAttribute("saved-theme")==="dark";r.initialize({startOnLoad:!1,securityLevel:"loose",theme:c?"dark":"base",themeVariables:{fontFamily:n["--codeFont"],primaryColor:n["--light"],primaryTextColor:n["--darkgray"],primaryBorderColor:n["--tertiary"],lineColor:n["--darkgray"],secondaryColor:n["--secondary"],tertiaryColor:n["--tertiary"],clusterBkg:n["--light"],edgeLabelBackground:n["--highlight"]}}),await r.run({nodes:e})}await o(),document.addEventListener("themechange",o),window.addCleanup(()=>document.removeEventListener("themechange",o));for(let n=0;n<e.length;n++){let v=function(){let g=l.querySelector("#mermaid-space"),m=l.querySelector(".mermaid-content");if(!m)return;y(m);let w=c.querySelector("svg").cloneNode(!0);m.appendChild(w),l.classList.add("active"),g.style.cursor="grab",u=new h(g,m)},M=function(){l.classList.remove("active"),u?.cleanup(),u=null},c=e[n],s=c.parentElement,a=s.querySelector(".clipboard-button"),d=s.querySelector(".expand-button"),p=window.getComputedStyle(a),L=a.offsetWidth+parseFloat(p.marginLeft||"0")+parseFloat(p.marginRight||"0");d.style.right=`calc(${L}px + 0.3rem)`,s.prepend(d);let l=s.querySelector("#mermaid-container");if(!l)return;let u=null;d.addEventListener("click",v),f(l,M),window.addCleanup(()=>{u?.cleanup(),d.removeEventListener("click",v)})}});
+</script><script src="https://cdn.jsdelivr.net/npm/katex@0.16.11/dist/contrib/copy-tex.min.js" type="application/javascript"></script><script src="../postscript.js" type="module"></script></html>

diff --git a/content/inSANe_old/test.md b/content/inSANe_old/test.md
@@ -1,6 +1,23 @@
 ---
-title: 【共演者ルール】
+title: "💃 共演者ルール"
 draft: false
 ---
+___
 
-test
+> [!info]- 共演者(ゲスト)とは、PCと同等の動きをするNPCのことを指します。<br>以下のものはインセインp228「NPC」、p229「共演者」の記述等参照のうえ、大々的に調整してあるハウスルールです。<br><br>`「共演者ルールを採用する」という記述のあるセッションの際は必ずご確認を願います。`
+
+<br>
+<br>
+
+# 【共演者ルール】
+___
+* 共演者はPCと同じようにCSを作成し特技・アビリティ・アイテムを使用する。
+* 調査判定、感情判定、恐怖判定、戦闘等の通常PCが可能な行為判定や修正の全てを自発的に行う。
+* 共演者の手番は全てのPCの行動の後に行う。<br>あるいは、全員の手番をダイスで決定する場合は共演者もダイスロールに参加し順番を決定する。
+* 共演者は「回想」を行う。(行わない場合は事前に告知する)
+* クライマックスフェイズで共演者の生命力が０になった場合、それを行ったプレイヤーはその共演者を死亡させるかを選ぶことが出来る。
+* 共演者は死亡時の「攻撃」や「遺言」を使用することは出来ない。
+* 功績点「ロールプレイ」において、共演者は除外される。
+* 功績点「琴線」において、共演者を選ぶことは出来ない。
+
+<br><br><br>

diff --git a/content/inSANe_old/inSANe_old.md b/content/inSANe_old/inSANe_old.md
@@ -4,6 +4,9 @@ draft: false
 order: 3
 ---
 
+
+<br>
+
 # 01.基本ルール
 ___
 ## 【キャラクターの職業及び職業の自作について】(p173)
@@ -67,11 +70,11 @@ ___
 <br>
 
 ### 【回想について】
-* 回想においても開かれた秘密でも「ショック」「恐怖判定」は発生します。<br>ただし既に受けたものであれば再度の発生はありません。
+* 回想においても開かれた秘密でも「ショック」「恐怖判定」は発生します。<br>ただし既に受けたものであれば再度の発生はありません。<br>
 <br>
-* 回想における「ショック」「恐怖判定」は、回想のダイスロール後に処理を行います。
+* 回想における「ショック」「恐怖判定」は、回想のダイスロール後に処理を行います。<br>
 <br>
- * 希望者は自分の回想の際に音楽等を持ち寄ることを自由とします。<br>演出を各自追加して頂いて結構です。<br>自分の回想用カットインのタグには「PC番号」を入れてください。
+ * 希望者は自分の回想の際に音楽等を持ち寄ることを自由とします。<br>演出を各自追加して頂いて結構です。<br>自分の回想用カットインのタグには「PC番号」を入れてください。<br>
 > [!info]- 操作が分からない方はGMにご連絡下さい
 
 <br>

diff --git a/content/inSANe_old/test2.md b/content/inSANe_old/test2.md
@@ -1,0 +1,6 @@
+---
+title: 【CS秘匿ルール】
+draft: false
+---
+
+test
